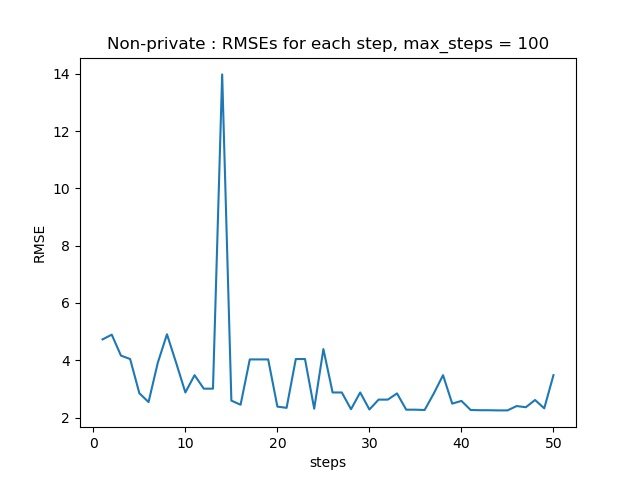
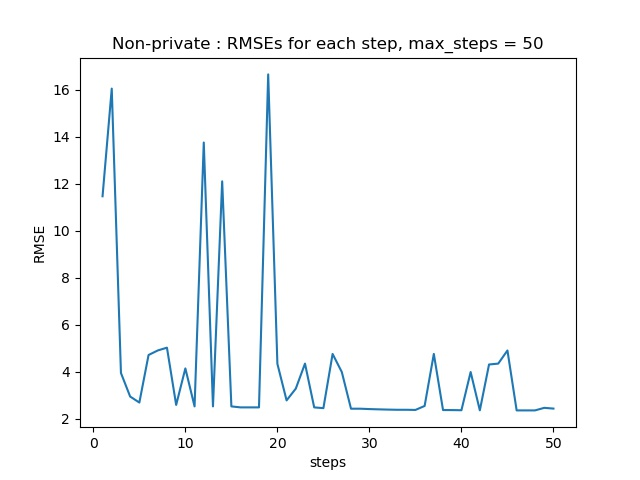
fix privacy mode and graphs

diff --git a/main.py b/main.py
@@ -180,13 +180,12 @@ max_steps = 50
 RMSEs = []
 mu=1000 
 
-"""
+
 for i in range(0,5):
     if i==0:
-        model, RMSEsLog = train(train_data, np.identity(n), train_agents_data_idx, True, mu, locL, max_steps, eps, logErrors=True)
+        model, RMSEsLog = train(train_data, np.identity(n), train_agents_data_idx, False, mu, locL, max_steps, eps, logErrors=True)
     else:
-        break
-        model, _ = train(train_data, np.identity(n), train_agents_data_idx, True, mu, locL, max_steps, eps)
+        model, _ = train(train_data, np.identity(n), train_agents_data_idx, False, mu, locL, max_steps, eps)
 
     print('trained a model for {} steps'.format(max_steps))
     user_RMSEs = evaluate(test_data, model, test_agents_data_idx)
@@ -197,24 +196,24 @@ for i in range(0,5):
         plt.plot([j + 1 for j in range(len(RMSEsLog))], RMSEsLog)
         plt.xlabel("steps")
         plt.ylabel("RMSE")
-        plt.title("Purely local : RMSEs for each step, max_steps = 100")
+        plt.title("Purely local : RMSEs for each step, max_steps = {}".format(max_steps))
         plt.savefig("Purely local.jpg")
+        plt.show()
     print('')
 
 print('Purely local models RMSE : {}'.format(sum(RMSEs)/len(RMSEs)))
 print('######################')
 
-"""
 
 #Non-priv. CD
+RMSEs = []
 mu = 1000
 
 for i in range(0,5):
     if i==0:
-        model, RMSEsLog = train(train_data, W, train_agents_data_idx, True, mu, locL, max_steps, eps, logErrors=True)
+        model, RMSEsLog = train(train_data, W, train_agents_data_idx, False, mu, locL, max_steps, eps, logErrors=True)
     else:
-        break
-        model, _ = train(train_data, W, train_agents_data_idx, True, mu, locL, max_steps, eps)
+        model, _ = train(train_data, W, train_agents_data_idx, False, mu, locL, max_steps, eps)
     
     print('trained a model for {} steps'.format(max_steps))
     user_RMSEs = evaluate(test_data, model, test_agents_data_idx)
@@ -225,24 +224,23 @@ for i in range(0,5):
         plt.plot([j + 1 for j in range(len(RMSEsLog))], RMSEsLog)
         plt.xlabel("steps")
         plt.ylabel("RMSE")
-        plt.title("Non-private : RMSEs for each step, max_steps = 100")
+        plt.title("Non-private : RMSEs for each step, max_steps = {}".format(max_steps))
         plt.savefig("Non-private.jpg")
+        plt.show()
     print('')
 
 print('Non-priv. CD RMSE : {}'.format(sum(RMSEs)/len(RMSEs)))
 print('######################')
 
-"""
+
 #Private, eps = 1.0
 RMSEs = []
-
 eps = [1.0]*n
 
 for i in range(0,5):
     if i==0:
         model, RMSEsLog = train(train_data, W, train_agents_data_idx, True, mu, locL, max_steps, eps, logErrors=True)
     else:
-        break
         model, _ = train(train_data, W, train_agents_data_idx, True, mu, locL, max_steps, eps)
 
     print('trained a model for {} steps'.format(max_steps))
@@ -254,47 +252,63 @@ for i in range(0,5):
         plt.plot([j + 1 for j in range(len(RMSEsLog))], RMSEsLog)
         plt.xlabel("steps")
         plt.ylabel("RMSE")
-        plt.title("Private, eps = 1.0 : RMSEs for each step, max_steps = 100")
+        plt.title("Private, eps = 1.0 : RMSEs for each step, max_steps = {}".format(max_steps))
         plt.savefig("Private, eps = 1.jpg")
+        plt.show()
+    print('')
 
 print('Private RMSE with eps={} : {}'.format(eps[0],sum(RMSEs)/len(RMSEs)))
+print('######################')
 
 #Private, eps = 0.5
 RMSEs = []
-
 eps = [0.5]*n
 
 for i in range(0,5):
     if i==0:
         model, RMSEsLog = train(train_data, W, train_agents_data_idx, True, mu, locL, max_steps, eps, logErrors=True)
     else:
-        break
         model, _ = train(train_data, W, train_agents_data_idx, True, mu, locL, max_steps, eps)
 
     print('trained a model for {} steps'.format(max_steps))
     user_RMSEs = evaluate(test_data, model, test_agents_data_idx)
     print('With privacy :', sum(user_RMSEs)/len(user_RMSEs))
     RMSEs.append(sum(user_RMSEs)/len(user_RMSEs))
+    if i==0:
+        print(RMSEsLog)
+        plt.plot([j + 1 for j in range(len(RMSEsLog))], RMSEsLog)
+        plt.xlabel("steps")
+        plt.ylabel("RMSE")
+        plt.title("Private, eps = 0.5 : RMSEs for each step, max_steps = {}".format(max_steps))
+        plt.savefig("Private, eps = 0.5.jpg")
+        plt.show()
     print('')
 
 print('Private RMSE with eps={} : {}'.format(eps[0],sum(RMSEs)/len(RMSEs)))
+print('######################')
 
 #Private, eps = 0.1
 RMSEs = []
-
 eps = [0.1]*n
 
 for i in range(0,5):
     if i==0:
         model, RMSEsLog = train(train_data, W, train_agents_data_idx, True, mu, locL, max_steps, eps, logErrors=True)
     else:
-        break
         model, _ = train(train_data, W, train_agents_data_idx, True, mu, locL, max_steps, eps)
     print('trained a model for {} steps'.format(max_steps))
     user_RMSEs = evaluate(test_data, model, test_agents_data_idx)
     print('With privacy :', sum(user_RMSEs)/len(user_RMSEs))
     RMSEs.append(sum(user_RMSEs)/len(user_RMSEs))
+    if i==0:
+        print(RMSEsLog)
+        plt.plot([j + 1 for j in range(len(RMSEsLog))], RMSEsLog)
+        plt.xlabel("steps")
+        plt.ylabel("RMSE")
+        plt.title("Private, eps = 0.1 : RMSEs for each step, max_steps = {}".format(max_steps))
+        plt.savefig("Private, eps = 0.1.jpg")
+        plt.show()
     print('')
 
 print('Private RMSE with eps={} : {}'.format(eps[0],sum(RMSEs)/len(RMSEs)))
-"""
+print('######################')
